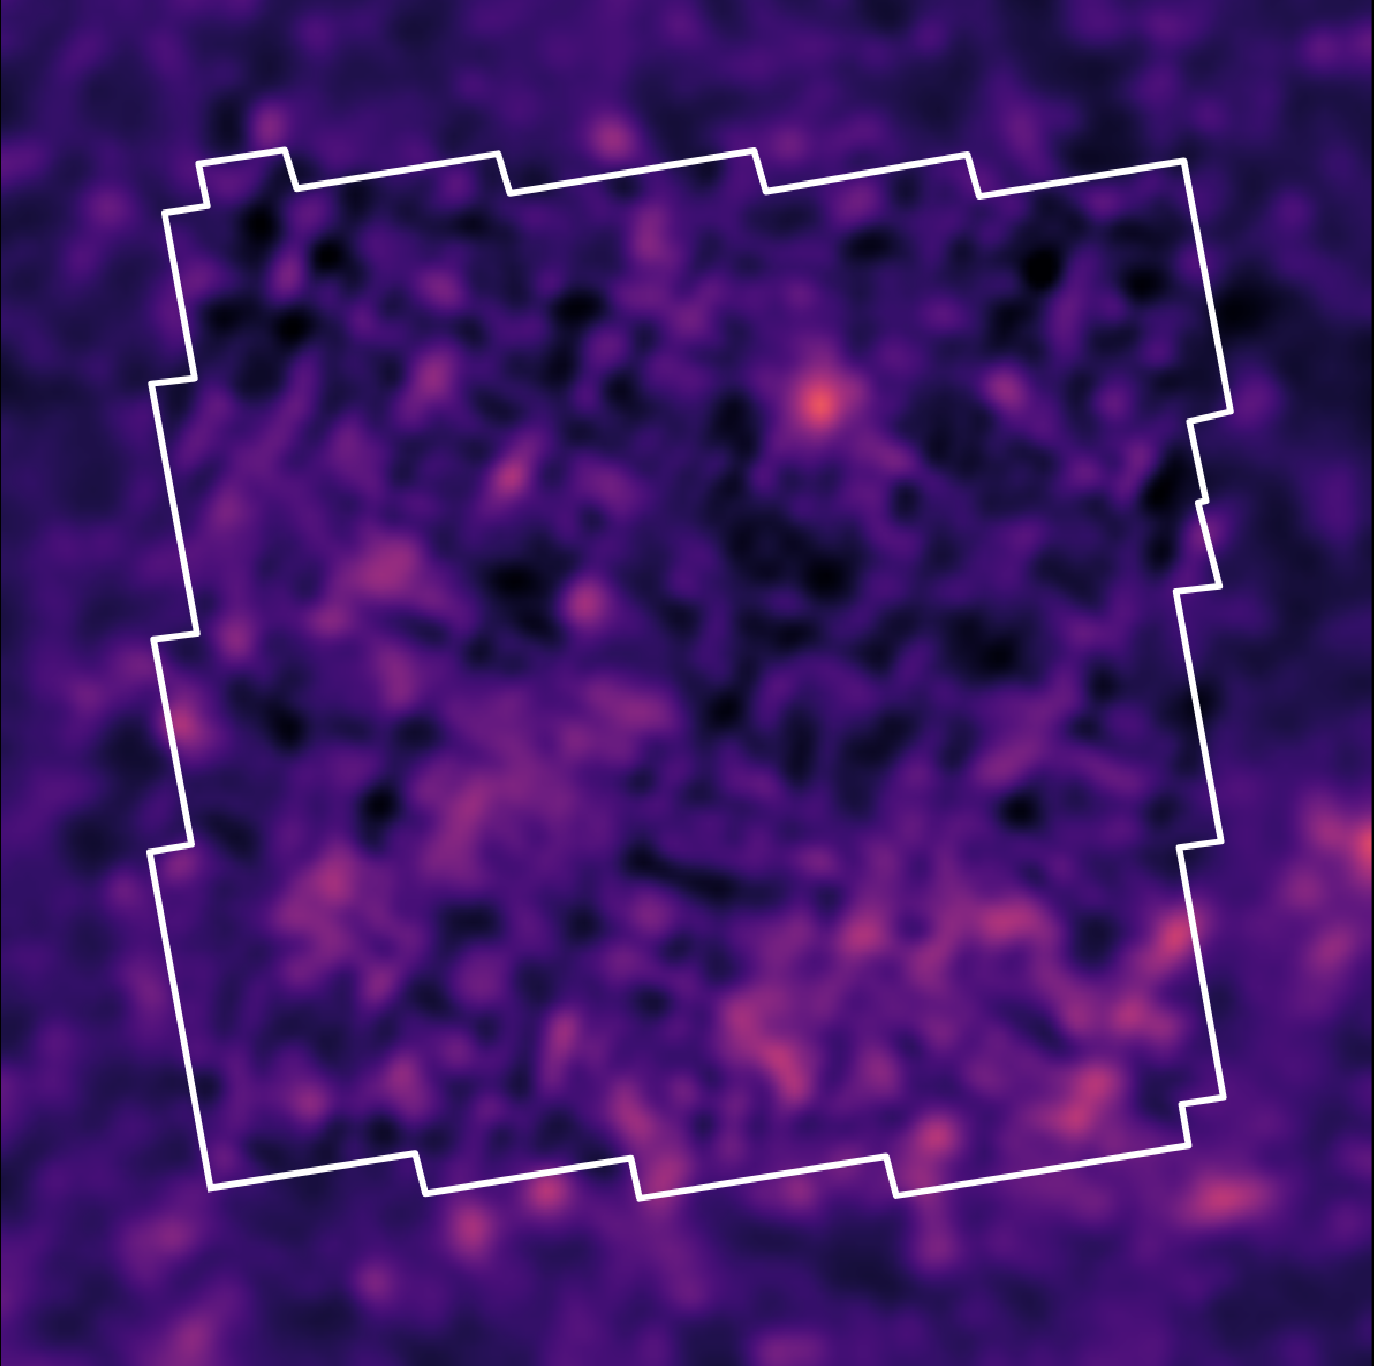
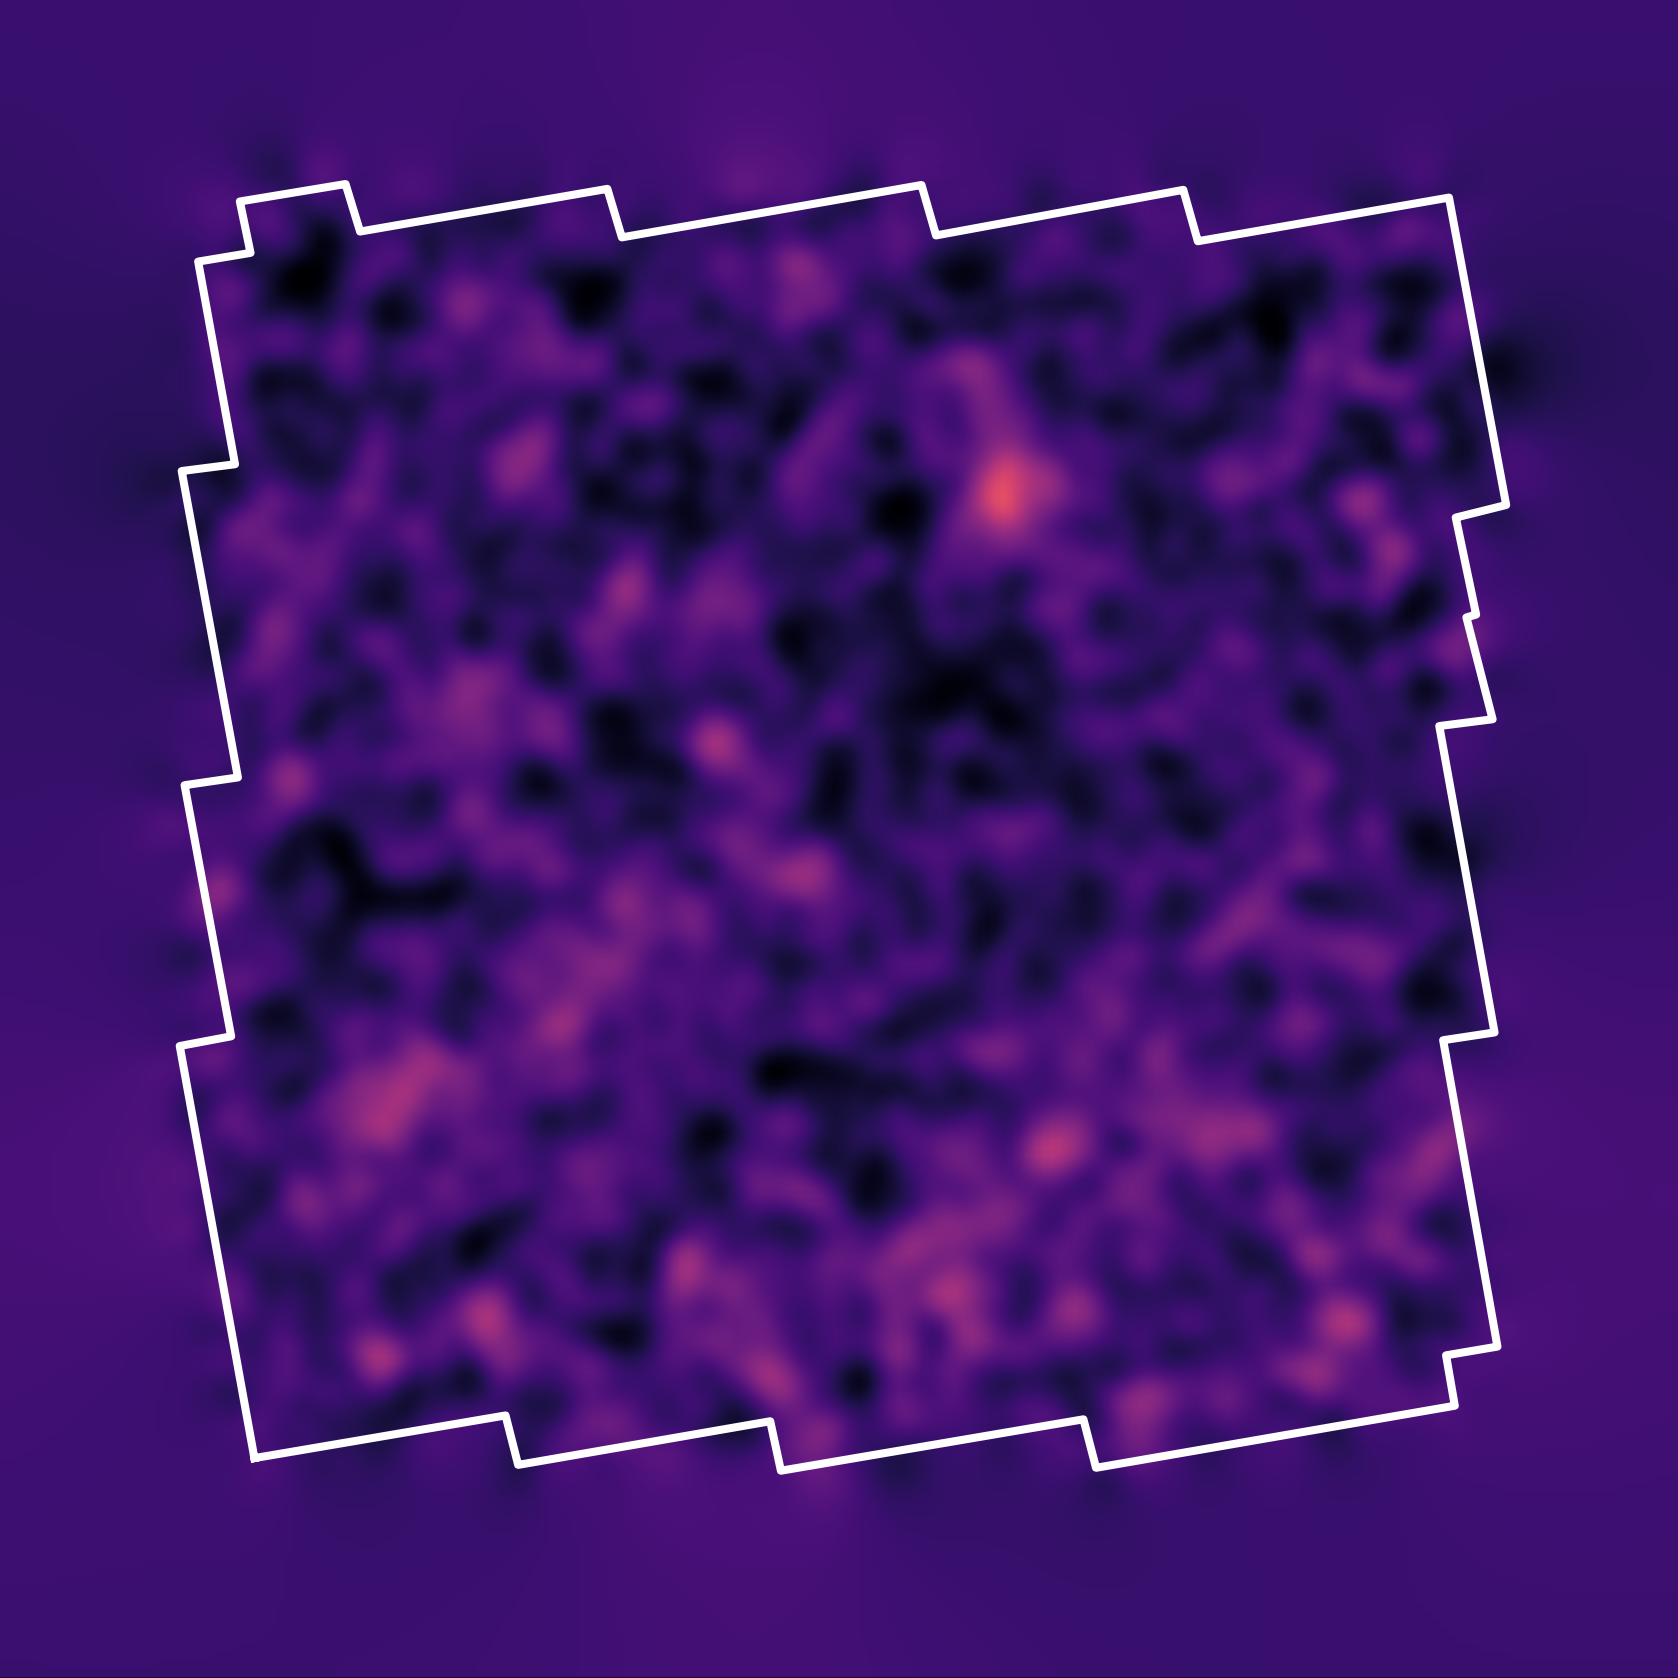
Updating plot

diff --git a/LPC2021/index.html b/LPC2021/index.html
@@ -404,12 +404,12 @@
 					</div>
 				</section>
 
-				<!-- <section>
-								<h3 class="slide-title"> Illustration on the Dark Energy Survey (DES) Y3</h3>
-								<div style="float:right; font-size: 20px">Jeffrey, et al. (2021)
-								</div><br>
-								<img data-src="assets/DESY3map.png" style="height:600px;"></img>
-							</section> -->
+				<section>
+					<h3 class="slide-title"> Illustration on the Dark Energy Survey (DES) Y3</h3>
+					<div style="float:right; font-size: 20px">Jeffrey, et al. (2021)
+					</div><br>
+					<img data-src="assets/DESY3map.png" style="height:600px;"></img>
+				</section>
 			</section>
 
 			<section>
@@ -1034,6 +1034,9 @@
 						<div class="col">
 							<div class="block-content">
 								<div style="position:relative; width:400px; height:400px; top:10px; left:40px;">
+									<div class="plain fragment current-visible " style="position:absolute;top:0;left:0;width:400px;" data-fragment-index="0">
+										<img data-src='assets/ks_ktng.png' style="width:400px; height:400px;" />
+									</div>
 									<div class="plain fragment current-visible " style="position:absolute;top:0;left:0;width:400px;" data-fragment-index="1">
 										<img data-src='assets/wiener_ktng.png' style="width:400px; height:400px;" />
 									</div>
@@ -1043,7 +1046,8 @@
 								</div>
 								<div class="block-content">
 									<div style="position:relative; width:400px; height:20px; top:50px; left:10px;">
-										<div class="fragment current-visible " data-fragment-index="1" style="position:absolute;top:0;left:0;width:400px;">Traditional Wiener Filter</div>
+										<div class="fragment current-visible " data-fragment-index="0" style="position:absolute;top:0;left:0;width:400px;">Traditional Kaiser-Squires</div>
+										<div class="fragment current-visible " data-fragment-index="1" style="position:absolute;top:0;left:0;width:400px;">Wiener Filter</div>
 										<div class="fragment" data-fragment-index="2" style="position:absolute;top:0;left:0;width:400px;">Posterior Mean (ours)</div>
 									</div>
 								</div>
